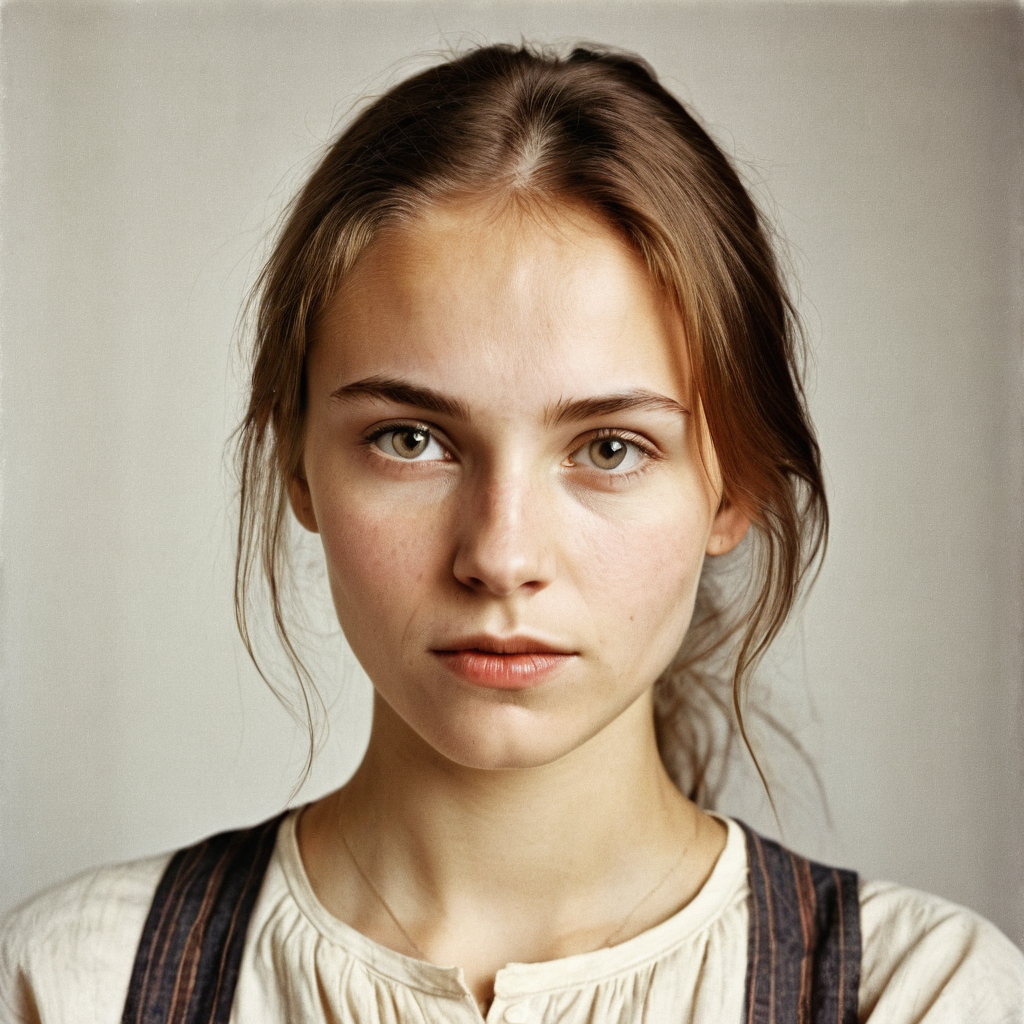
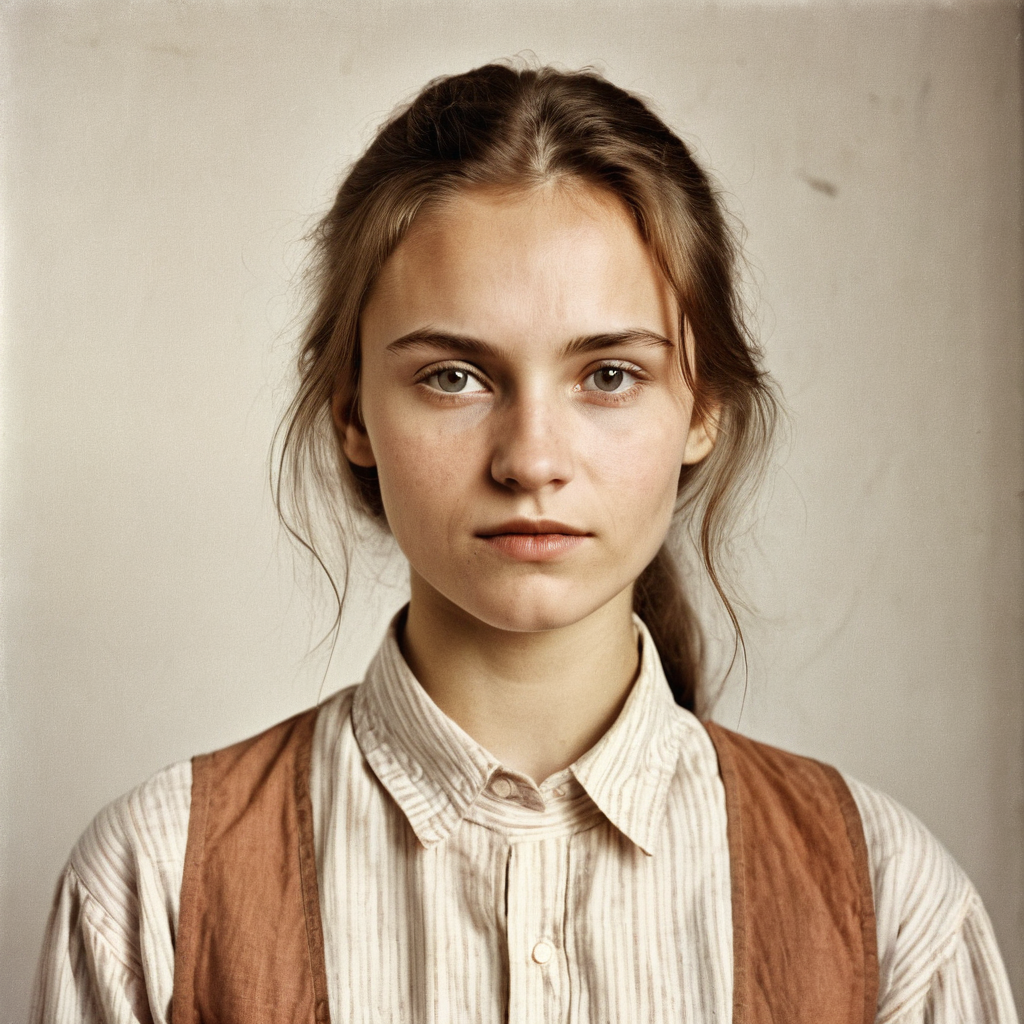
generating

diff --git a/cenzor_inpainter.py b/cenzor_inpainter.py
@@ -7,6 +7,7 @@ from diffusers import DPMSolverMultistepScheduler
 from maskgen import generate_frame_mask
 import cv2
 import numpy as np
+import random
 
 class CenzorInpainter:
     def __init__(
@@ -47,6 +48,9 @@ class CenzorInpainter:
         # Оставляем ТОЛЬКО slicing — tiling на MPS ломает память (contiguous stride)
         self.pipe.vae.enable_slicing()
         self.pipe.vae.disable_tiling()
+        print(
+            "✅ [Inpainter] Подсистема дорисовывания успешно инициализирована.\n"
+        )
 
     def inpaint_human(self,
         background: Image.Image,
@@ -118,8 +122,8 @@ class CenzorInpainter:
         alpha_print: Image.Image,
         back_object: str = "simple background",
         negative_prompt: str = None,
-        inner_pad: int = 5,
-        strength: float = 0.8,
+        inner_pad: int = 20,
+        strength: float = 1.0,
         denoise_steps_coef: float = 1.0,
         guidance_scale: float = 7.5,
         seed: int = None,
@@ -144,17 +148,20 @@ class CenzorInpainter:
         mask_image = Image.fromarray(final_mask_np)
 
         # 4. Настройка генератора случайных чисел
-        generator = None
-        if seed is not None:
-            generator = torch.Generator(device=self.pipe.device).manual_seed(seed)
+        if seed is None:
+            seed = random.randint(0, 2147483647)
+            print(f"🎲 Используется SEED: {seed}")
+        else: print(f"Используется заранее заданный SEED: {seed}")
+
+        generator = torch.Generator(device="cpu").manual_seed(seed)
 
         # 5. Запуск инпейнтинга (SDXL Pipeline)
         base_steps = 20
         num_inference_steps = max(1, math.ceil(base_steps * denoise_steps_coef))
 
         prompt = f"Background photography of a {back_object}, 1980s, casual photo."
-        print(f"Используется промпт: {prompt}")
-
+        print("--- СИСТЕМА ЦЕНЗОР: ЗАПУСК ПОДСИСТЕМЫ ДОПОЛНЕНИЯ ДАННЫХ О МЕСТОПОЛОЖЕНИИ ЧЕЛОВЕЧЕСКОГО СУБЪЕКТА ---")
+        print(f"--- СИСТЕМА ЦЕНЗОР: ИСПОЛЬЗУЮТСЯ ДАННЫЕ О МЕСТЕ {prompt}")
         return self.pipe(
             prompt=prompt,
             negative_prompt=negative_prompt,

diff --git a/generator_to_inpainter.py b/generator_to_inpainter.py
@@ -9,13 +9,17 @@ hgen = HealthyGen()
 comrades_dir = Path("gen/comrades")
 comrades_dir.mkdir(parents=True, exist_ok=True) # Создаст папку, если ее нет
 comrade_filename = get_next_available_filename(directory=comrades_dir, prefix="comrade_")
+print ("--- СИСТЕМА ЦЕНЗОР: ВЫГРУЗКА В ЭЛЕКТРОННУЮ БАЗУ ---")
+print (f"--- СИСТЕМА ЦЕНЗОР: ВЫБРАНА ДИРЕКТОРИЯ {comrades_dir} ---")
+print (f"--- СИСТЕМА ЦЕНЗОР: ИМЯ ФАЙЛА {comrade_filename} ---")
 
-hgen.generate_healthy(age="young",
-                      gender="woman",
-                      nationality="russian",
+hgen.generate_healthy(age="old",
+                      gender="man",
+                      nationality="belorus",
                       clothing="worker clothes",
                       composition="half-body photo",
                       output_name=comrades_dir / comrade_filename)
+print(f"--- СИСTЕМА ЦЕНЗОР: ПРОИЗВЕДЕНО ИЗВЛЕЧЕНИЕ В ЭЛЕКТРОННУЮ БАЗУ ПОД ИМЕНЕМ {comrades_dir / comrade_filename}")
 
 #2 Дорисовка фона
 import random
@@ -23,7 +27,7 @@ from cenzor_inpainter import CenzorInpainter
 inpainter = CenzorInpainter()
 
 places = (
-    "quiet soviet street view",
+    "quiet soviet street",
     "soviet bus stop",
     "soviet factory",
     "soviet khrushchyovka building",
@@ -42,12 +46,15 @@ inpback_filename = get_next_available_filename(directory=inpainted_dir, prefix="
 comrade_number = Path(comrade_filename).stem.split("_")[-1]
 cut_dir = Path("gen/cuts")
 cut_dir.mkdir(parents=True, exist_ok=True) # Создаст папку, если ее нет
+
+print("--- СИСТЕМА ЦЕНЗОР: АВТОМАТИЧЕСКОЕ %335мвУКВЫР,% ОБРАЗА ЧЕЛОВЕЧЕСКОГО ЛИЦА ---")
 from cutter import remove_background
 remove_background(
     picture_path = comrades_dir / comrade_filename,
     output_path=cut_dir / f"comr_noback_{comrade_number}.png",
 )
-#comrade_number = 1
+print("--- СИСТЕМА ЦЕНЗОР: №№:%:,% ЛИЦА ПРОИЗВЕДЕНО ---")
+
 inpainter.inpaint_back(figure=Image.open(comrades_dir / comrade_filename),
                     alpha_print=Image.open(cut_dir / f"comr_noback_{comrade_number}.png"),
                     back_object = random.choice(places),

diff --git a/humangen.py b/humangen.py
@@ -22,9 +22,7 @@ class HealthyGen:
         output_name: str,
         seed: int = None,
     ):
-        print(
-            "--- СИСТЕМА ЦЕНЗОР: ИЗВЛЕЧЕНИЕ ЛИЦЕВЫХ ДАННЫХ ИЗ БАЗ К.О.Н.Т.У.Р. ---"
-        )
+        print("--- СИСТЕМА ЦЕНЗОР: ИЗВЛЕЧЕНИЕ ЛИЦЕВЫХ ДАННЫХ ИЗ БАЗ К.О.Н.Т.У.Р. ---")
 
         prompt_healthy = (
             f"A {composition} of a {age} {nationality} {gender}, "
@@ -34,7 +32,7 @@ class HealthyGen:
 
         prompt2_healthy = (
             f"A {composition} of a {age} {nationality} {gender}, wearing {clothing}"
-            f"1980s soviet archival document portrait, neutral serious expression, "
+            f"1980s soviet archival photo, "
             f"soft studio lighting, sharp focus, analogue film grain, masterpiece photography"
         )
 
@@ -47,6 +45,8 @@ class HealthyGen:
             "comic, deformed, poster, cars, flags, text"
         )
 
+        print ("--- СИСТЕМА ЦЕНЗОР: ПОИСК В ФИЗИЧЕСКИХ БАЗАХ ПО ЗАПРОСУ ---")
+        print (f"--- ЗАПРОС: {prompt_healthy} ---")
         # Пробрасываем seed в ядро
         _, used_seed = self.normal_generator.generate(
             prompt=prompt_healthy,
